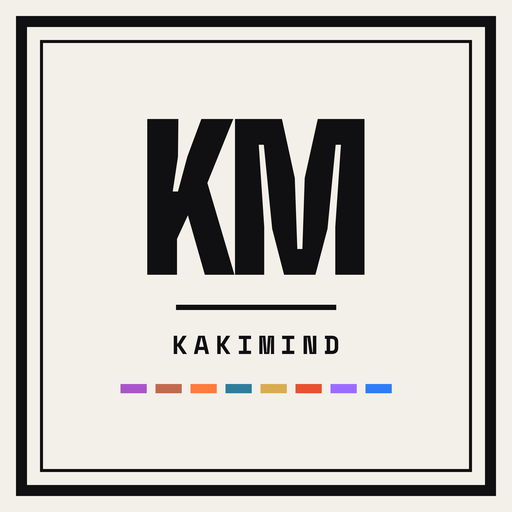
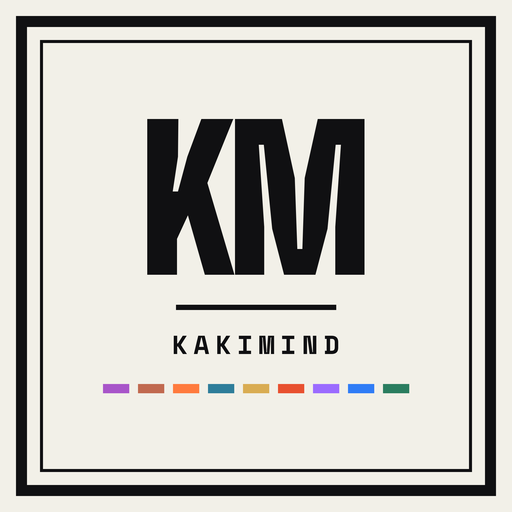
Redraw the developer profile artwork with the ninth title
One line in SPOTS; the bar count and the header's spelled-out number
follow the list, as they were rewritten to on 10-30.

Changed region(s): [[0.1875, 0.75, 0.8125, 0.7812]]

diff --git a/play-developer-profile/build-profile-assets.py b/play-developer-profile/build-profile-assets.py
@@ -20,7 +20,8 @@ SPOTS = [("01", (168,  85, 201)),   # PomPom Ville
          ("05", (217, 172,  82)),   # Dear Star, My Wish
          ("06", (232,  80,  47)),   # Orbit Hop
          ("07", (155, 107, 255)),   # Top of Gravity
-         ("08", ( 47, 124, 246))]   # Bubble Rumble
+         ("08", ( 47, 124, 246)),   # Bubble Rumble
+         ("09", ( 42, 125,  95))]   # 연화사
 
 # The header spells the count out, and it went stale once already: the
 # artwork still read SIX after two more titles had shipped. Spelling it

diff --git a/CHANGELOG.md b/CHANGELOG.md
@@ -7,6 +7,8 @@
 - 허브에 §09로 추가. 스팟 컬러는 단청 녹색 `#2a7d5f`(아이콘의 짙은 녹색 바탕에서 가져옴), `#f09`의 `grid-column` 쌍도 같이 넣었다. 목차·사이트맵·`9 FEATURES INSIDE`·메타 설명의 "8종"까지 전부 맞췄다 (`6 FEATURES INSIDE`로 한참 틀려 있던 것도 같이 고침).
 - **스크린샷이 아직 없다.** placeholder 금지 규칙에 따라 FIG. 01은 실제 앱 아이콘(금빛 연꽃, `yunhwasa/assets/icon-only.png` → 512/256으로 축소)만 쓰고, 나머지는 수치 블록(염주 108 · 법문 365 · 방석 100 · 등급 6)과 참배 등급 사다리로 채웠다.
 - 개인정보처리방침은 앱 저장소의 `docs/데이터-보안-양식.md`(코드에서 확인된 사실만 적힌 문서)를 그대로 근거로 썼다. 핵심 두 가지를 명시 — **서버가 아무것도 보관하지 않는다**(연등이 WebSocket 세션에 매달려 있어 접속이 끊기면 사라짐), **연등은 기본이 비공개이고 공개로 고른 것만 서버로 나간다**. 현재 빌드가 구글 테스트 광고 단위를 쓴다는 것도 적어 뒀다.
+- **개발자 프로필 에셋을 9개 기준으로 다시 뽑았다.** `SPOTS`에 `("09", (42,125,95))` 한 줄을 더하고 스크립트를 돌린 것이 전부다 — 레지스터 바가 아홉 개가 되고 헤더 문구도 "NINE TITLES INSIDE"로 알아서 바뀌었다. 10-30에 개수를 리스트에서 끌어오게 고쳐 둔 것이 의도대로 작동했다.
+- 앱 저장소(`yunhwasa`)의 `docs/할일.md`·`docs/작업기록.md`에도 주소와 "허브 저장소 하위 폴더"라는 사실을 적어 뒀다 (`b262205`). 그 저장소에서 사이트 파일을 찾다 헤매지 않도록.
 - `app-ads.txt`는 손대지 않았다. 호스트 루트(`kakimind.github.io/app-ads.txt`)에 실제 게시자 ID가 이미 올라가 있어, Play 등록정보의 웹사이트를 `https://kakimind.github.io/`로 적으면 연화사도 그대로 인증된다 (앱 저장소 `docs/app-ads/app-ads.txt`는 게시자 ID가 `0000...`인 안내용 사본이라 올릴 필요 없음).
 
 ## 2026-10-30
